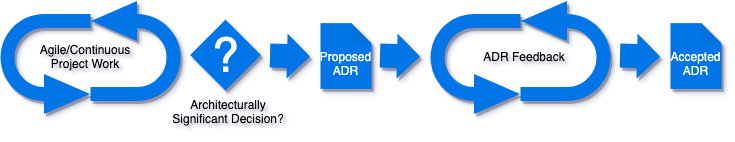
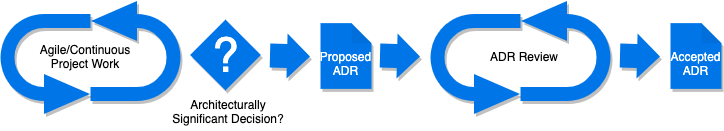
Changes on figures.

Changed region(s): [[0.0, 0.0, 1.0, 0.9771], [0.1519, 0.0, 0.2127, 0.1221]]

diff --git a/_posts/2021-05-16-overview-of-architecture-review-processes.md b/_posts/2021-05-16-overview-of-architecture-review-processes.md
@@ -223,6 +223,8 @@ Ubl {% cite Ubl2020 %} and Orosz {% cite Orosz2021 %} suggest roughly the follow
   1. The stable DD should be shared with the organization or, at least, with a wider audience of interested people who review the DD and the solution idea in multiple rounds of feedback.
   1. "When things have progressed sufficiently to have confidence that further reviews are unlikely to require major changes to the design, it is time to begin implementation." {% cite Ubl2020 %}
 
+![Overview of the Lightweight RFC/DD process](/assets/lightweight-rfc-dd-review-process.png)
+
 ### Artifacts
 
 The entire Lightweight RFC/DD approach is about the DD.
